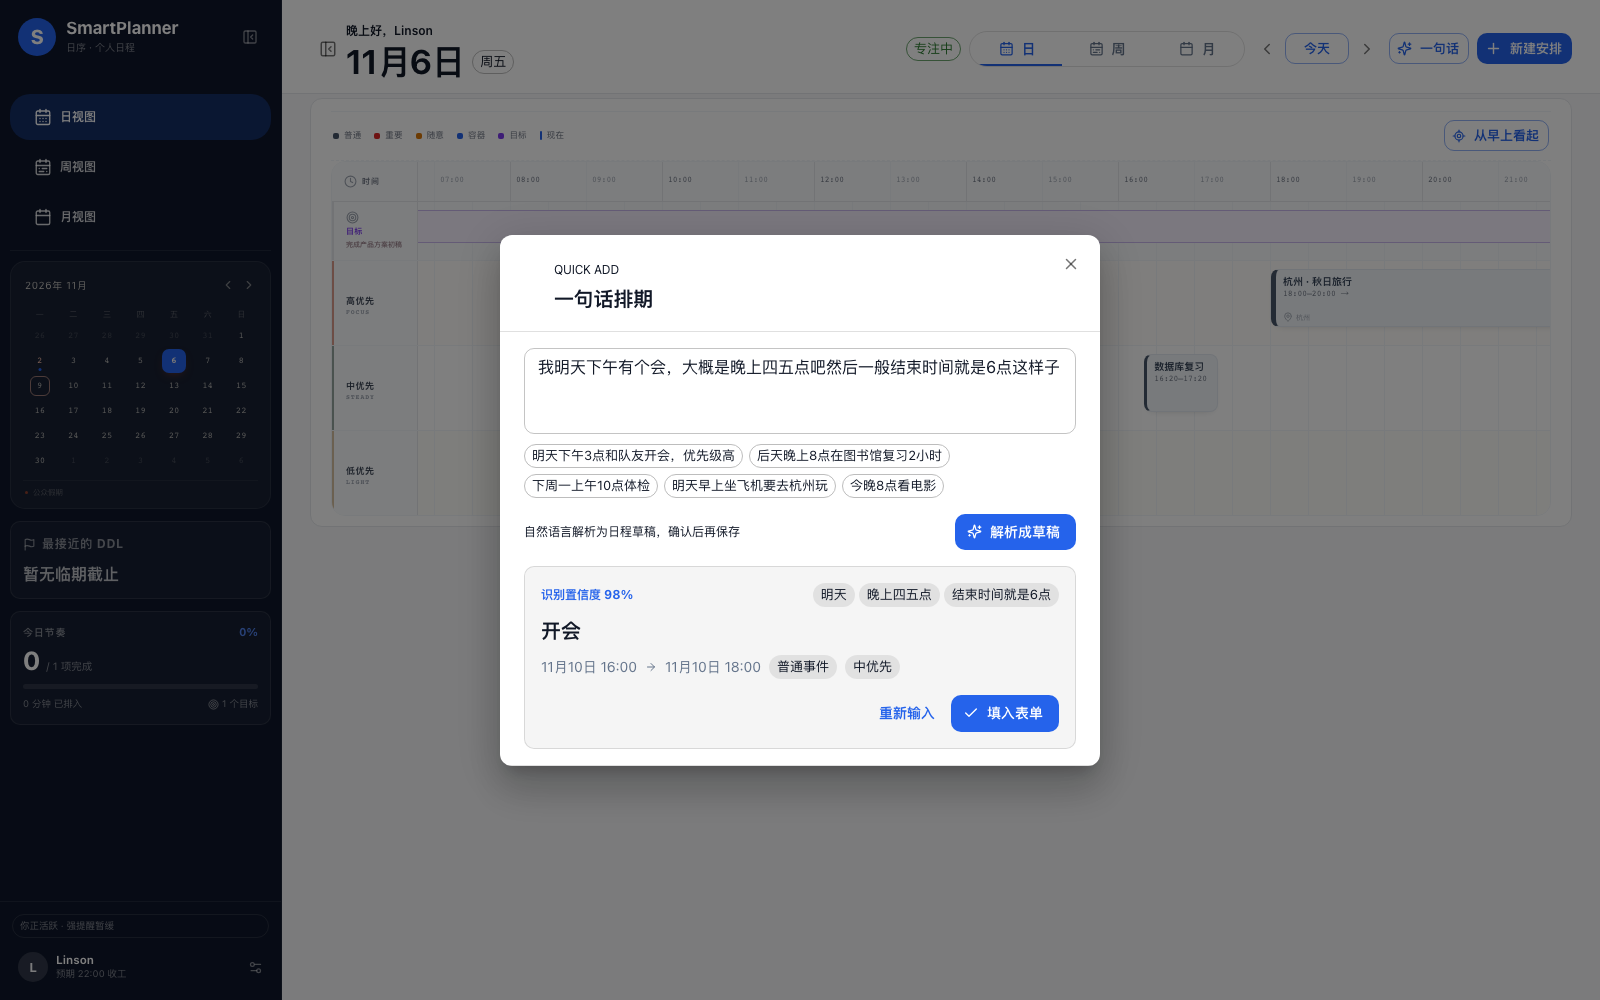
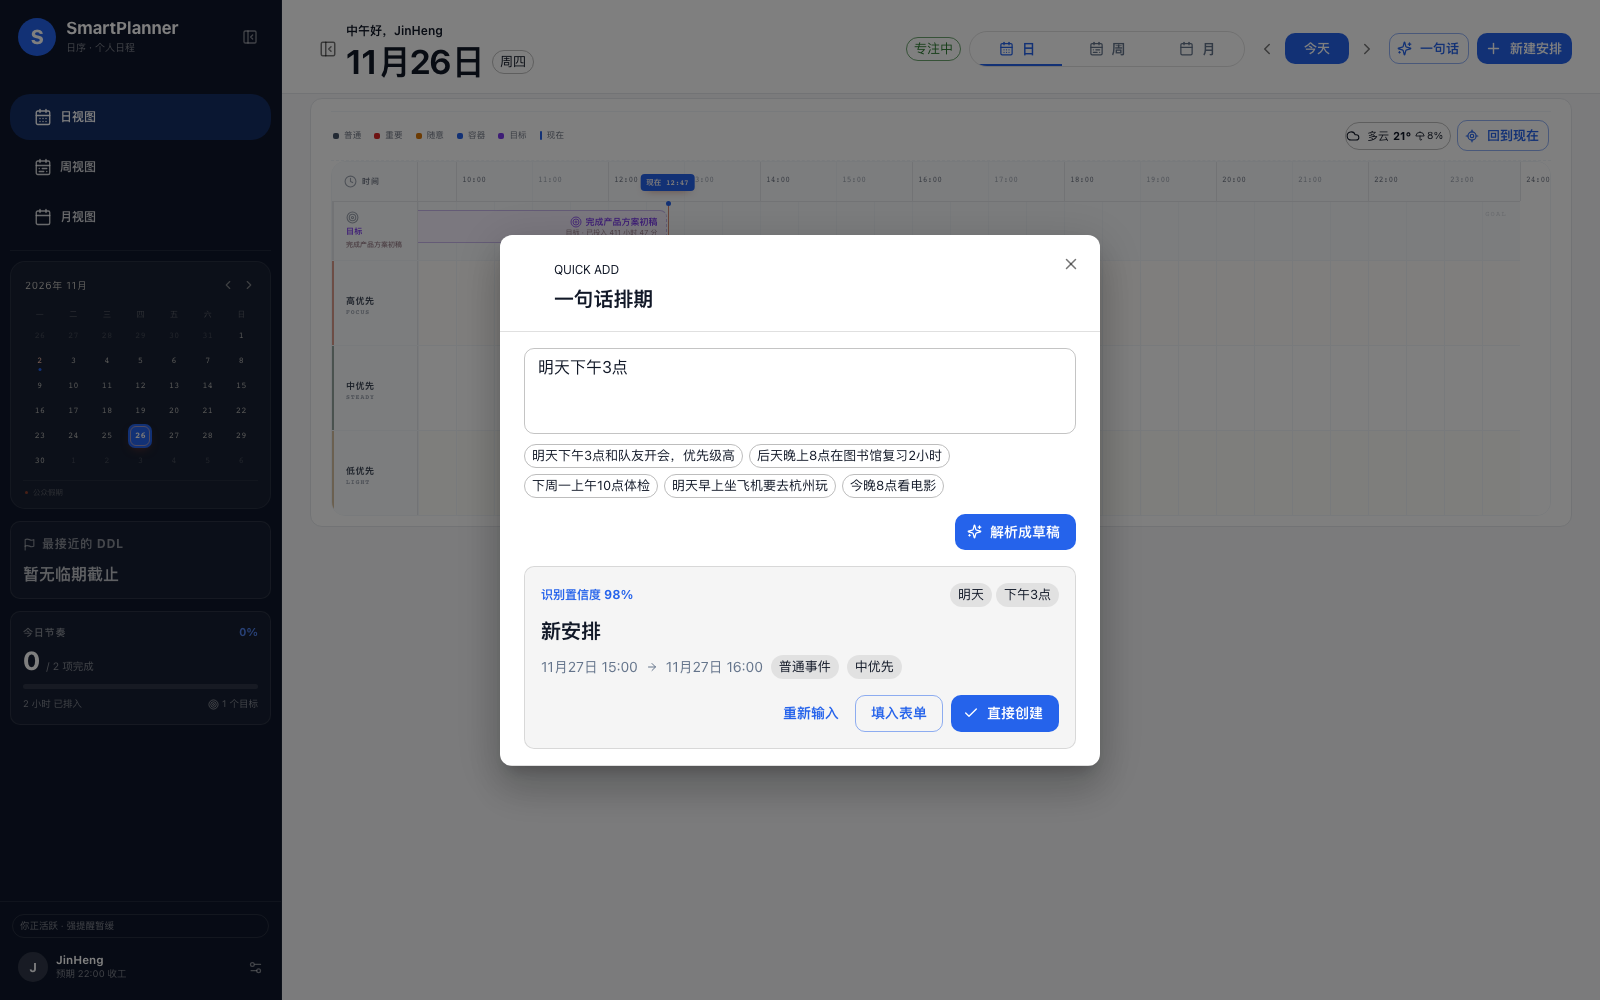
feat: create events directly from quick add drafts

diff --git a/web/components/planner-app.tsx b/web/components/planner-app.tsx
@@ -9,6 +9,7 @@ import type {
   HeartbeatResponse,
   Holiday,
   HolidayRegion,
+  NlpDraft,
   Priority,
   Profile,
   Reminder,
@@ -31,6 +32,7 @@ import { effectiveEnd } from "@/lib/layout";
 import {
   ApiRequestError,
   applySchedule,
+  createEvent,
   fetchEvents,
   fetchHolidays,
   fetchOverview,
@@ -275,8 +277,8 @@ export function PlannerApp() {
     });
   }, [openCreate]);
 
-  const handleSaved = useCallback((event: ScheduleEvent, analysis: Analysis) => {
-    const wasCreate = panel?.mode === "create";
+  const handleSaved = useCallback((event: ScheduleEvent, analysis: Analysis, wasCreateOverride?: boolean) => {
+    const wasCreate = wasCreateOverride ?? panel?.mode === "create";
     setPanel(null);
     refresh();
     if (!analysis.engineAvailable) {
@@ -330,6 +332,38 @@ export function PlannerApp() {
       });
     }
   }, [panel?.mode, push, refresh, weather]);
+
+  const handleNlpCreate = useCallback(async (draft: NlpDraft) => {
+    const start = parseDateTime(draft.startAt);
+    if (!start) {
+      push({ tone: "error", title: "无法创建", message: "这句话里没有可用的开始时间" });
+      return;
+    }
+    const end = parseDateTime(draft.endAt);
+    setNlpOpen(false);
+    try {
+      const response = await createEvent({
+        title: draft.title || "新安排",
+        notes: draft.notes,
+        type: draft.type,
+        priority: draft.priority,
+        startAt: toApiDateTime(start),
+        endAt: draft.type === "GOAL" ? null : toApiDateTime(end ?? new Date(start.getTime() + 60 * 60 * 1000)),
+        dueAt: null,
+        parentId: null,
+        location: draft.location ?? "",
+        weatherSensitive: false,
+        lookaheadDays: 0,
+      });
+      handleSaved(response.event, response.analysis, true);
+    } catch (error) {
+      push({
+        tone: "error",
+        title: "创建失败",
+        message: error instanceof ApiRequestError ? error.message : "日程暂时没有保存成功",
+      });
+    }
+  }, [handleSaved, push]);
 
   const handleComplete = useCallback((event: ScheduleEvent) => {
     setPanel({ mode: "view", event, key: `view-${event.id}-${Date.now()}` });
@@ -622,6 +656,7 @@ export function PlannerApp() {
       <NlpDialog
         open={nlpOpen}
         onClose={() => setNlpOpen(false)}
+        onCreateDraft={(draft) => { void handleNlpCreate(draft); }}
         onUseDraft={(draft) => {
           const start = parseDateTime(draft.startAt);
           if (!start) return;

diff --git a/web/components/nlp-dialog.tsx b/web/components/nlp-dialog.tsx
@@ -14,6 +14,7 @@ interface NlpDialogProps {
   open: boolean;
   onClose: () => void;
   onUseDraft: (draft: NlpDraft) => void;
+  onCreateDraft: (draft: NlpDraft) => void;
 }
 
 const EXAMPLES = [
@@ -24,7 +25,7 @@ const EXAMPLES = [
   "今晚8点看电影",
 ];
 
-export function NlpDialog({ open, onClose, onUseDraft }: NlpDialogProps) {
+export function NlpDialog({ open, onClose, onUseDraft, onCreateDraft }: NlpDialogProps) {
   const [text, setText] = useState("");
   const [draft, setDraft] = useState<NlpDraft | null>(null);
   const [loading, setLoading] = useState(false);
@@ -90,8 +91,7 @@ export function NlpDialog({ open, onClose, onUseDraft }: NlpDialogProps) {
               <Chip key={example} label={example} size="small" variant="outlined" onClick={() => { setText(example); setDraft(null); }} />
             ))}
           </Stack>
-          <Stack direction="row" sx={{ justifyContent: "space-between", alignItems: "center", mt: 2 }}>
-            <Typography variant="caption" color="text.secondary">自然语言解析为日程草稿，确认后再保存</Typography>
+          <Stack direction="row" sx={{ justifyContent: "flex-end", alignItems: "center", mt: 2 }}>
             <Button type="submit" variant="contained" disabled={loading} startIcon={loading ? <Loader2 size={15} className="spin" /> : <Sparkles size={15} />}>
               {loading ? "正在解析…" : "解析成草稿"}
             </Button>
@@ -120,7 +120,8 @@ export function NlpDialog({ open, onClose, onUseDraft }: NlpDialogProps) {
             </Stack>
             <Stack direction="row" spacing={1} sx={{ justifyContent: "flex-end", mt: 2 }}>
               <Button variant="text" onClick={() => setDraft(null)}>重新输入</Button>
-              <Button variant="contained" startIcon={<Check size={16} />} onClick={() => onUseDraft(draft)}>填入表单</Button>
+              <Button variant="outlined" onClick={() => onUseDraft(draft)}>填入表单</Button>
+              <Button variant="contained" startIcon={<Check size={16} />} onClick={() => onCreateDraft(draft)}>直接创建</Button>
             </Stack>
           </Paper>
         ) : null}

diff --git a/engine/tests/test_nlp.py b/engine/tests/test_nlp.py
@@ -130,3 +130,29 @@ def test_nlp_endpoint_accepts_colloquial_meeting():
     assert payload["title"] == "开会"
     assert payload["startAt"] == "2026-11-07T16:00:00"
     assert payload["endAt"] == "2026-11-07T18:00:00"
+
+
+def test_past_weekday_rolls_to_next_week():
+    now = datetime(2026, 11, 6, 18, 0)  # Friday evening
+    draft = parse_sentence("周五下午3点开会", now)
+    assert draft.start_at == datetime(2026, 11, 13, 15, 0)
+    assert draft.end_at == datetime(2026, 11, 13, 16, 0)
+
+
+def test_past_tonight_rolls_to_tomorrow():
+    now = datetime(2026, 11, 6, 22, 0)
+    draft = parse_sentence("今晚8点看电影", now)
+    assert draft.start_at == datetime(2026, 11, 7, 20, 0)
+    assert draft.end_at == datetime(2026, 11, 7, 21, 0)
+
+
+def test_sparse_quick_add_still_has_usable_defaults():
+    draft = parse_sentence("买菜", NOW)
+    assert draft.title == "买菜"
+    assert draft.start_at > NOW
+    assert draft.end_at - draft.start_at == __import__("datetime").timedelta(hours=1)
+
+    draft = parse_sentence("明天下午3点", NOW)
+    assert draft.title == "新安排"
+    assert draft.start_at == datetime(2026, 11, 7, 15, 0)
+    assert draft.end_at == datetime(2026, 11, 7, 16, 0)

diff --git a/engine/app/nlp.py b/engine/app/nlp.py
@@ -451,6 +451,20 @@ def parse_sentence(text: str, now: datetime | None = None) -> NlpDraftOut:
         if end <= start:
             end = start + timedelta(hours=1)
 
+    # A weekday or "today/tonight" that has already passed should move forward,
+    # not create an event in the past. Explicit calendar dates are left as typed.
+    shift_days = 0
+    if start <= now:
+        if date_text in ("今天", "今晚"):
+            shift_days = 1
+        elif date_text and re.fullmatch(r"(?:周|星期)[一二三四五六日天]", date_text):
+            shift_days = 7
+    if shift_days:
+        target_date += timedelta(days=shift_days)
+        start += timedelta(days=shift_days)
+        if end is not None:
+            end += timedelta(days=shift_days)
+
     title = _clean_title(text, matched, location)
 
     confidence = 0.42 + date_confidence + time_info.confidence + duration_confidence
